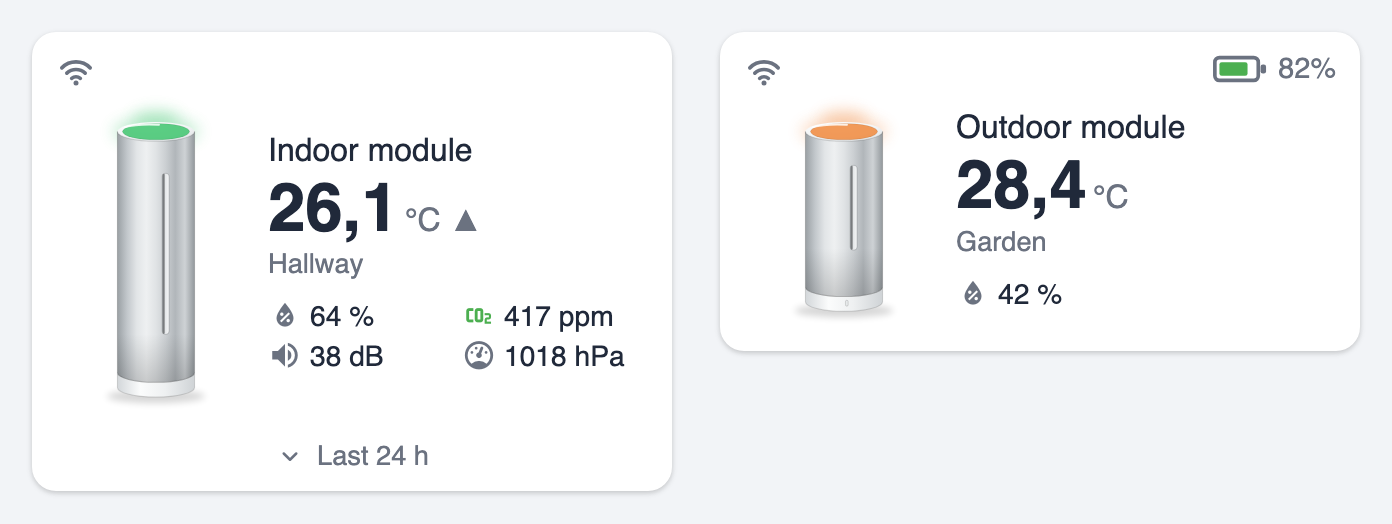
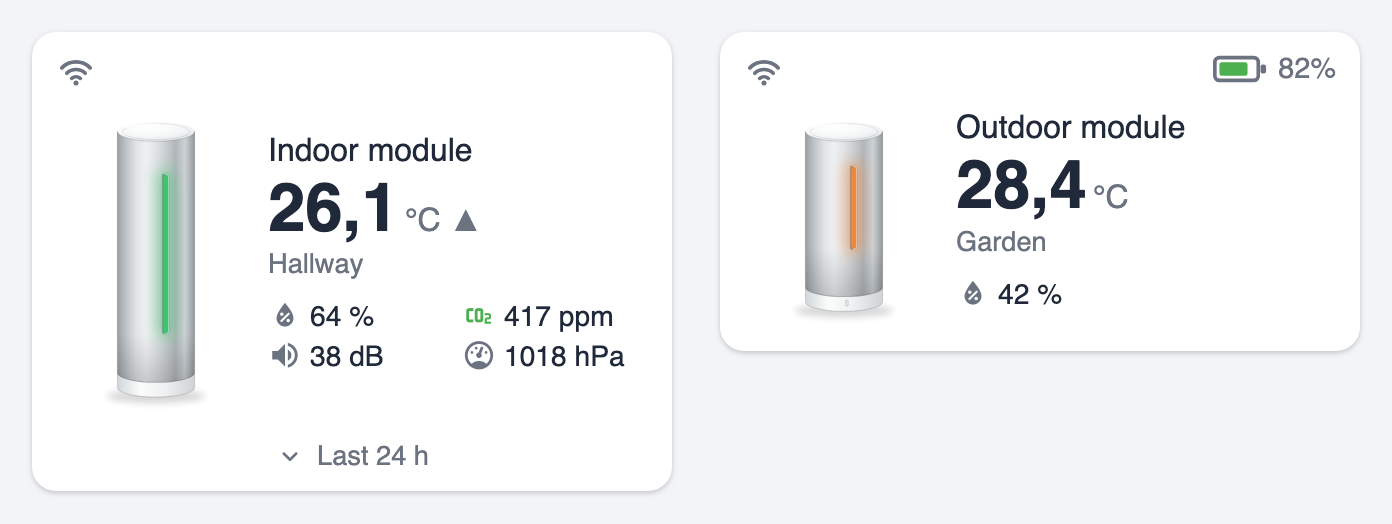
fix: the light is the front groove, not the top (matches the real module)

diff --git a/dist/netatmo-card.js b/dist/netatmo-card.js
@@ -15,7 +15,7 @@ const NT_T = {
     humidity: "Humidity entity", co2: "CO₂ entity", noise: "Noise entity", pressure: "Pressure entity",
     trend: "Temperature trend entity", battery: "Battery entity", connectivity: "Connectivity entity",
     body: "Module finish", bodyAlu: "Aluminium", bodySand: "Sand", bodyMint: "Mint", bodyGraphite: "Graphite",
-    glow: "Light up the top (air quality / temperature)", accent: "Accent color (hex)",
+    glow: "Light up the front groove (air quality / temperature)", accent: "Accent color (hex)",
     co2Good: "CO₂ threshold — good (ppm)", co2Bad: "CO₂ threshold — poor (ppm)",
     histOpt: "Show the 24 h history button", histEnt: "Charted entity (default: temperature)",
     hist: "Last 24 h", noData: "No data",
@@ -28,7 +28,7 @@ const NT_T = {
     humidity: "Entité humidité", co2: "Entité CO₂", noise: "Entité bruit", pressure: "Entité pression",
     trend: "Entité tendance de la température", battery: "Entité batterie", connectivity: "Entité connectivité",
     body: "Finition du module", bodyAlu: "Aluminium", bodySand: "Sable", bodyMint: "Menthe", bodyGraphite: "Graphite",
-    glow: "Allumer le dessus (qualité de l'air / température)", accent: "Couleur d'accent (hex)",
+    glow: "Allumer la fente (qualité de l'air / température)", accent: "Couleur d'accent (hex)",
     co2Good: "Seuil CO₂ — bon (ppm)", co2Bad: "Seuil CO₂ — mauvais (ppm)",
     histOpt: "Afficher le bouton tracé 24 h", histEnt: "Entité tracée (défaut : température)",
     hist: "Dernières 24 h", noData: "Aucune donnée",
@@ -41,7 +41,7 @@ const NT_T = {
     humidity: "Feuchtigkeits-Entität", co2: "CO₂-Entität", noise: "Lärm-Entität", pressure: "Luftdruck-Entität",
     trend: "Entität Temperaturtrend", battery: "Batterie-Entität", connectivity: "Konnektivitäts-Entität",
     body: "Oberfläche des Moduls", bodyAlu: "Aluminium", bodySand: "Sand", bodyMint: "Mint", bodyGraphite: "Graphit",
-    glow: "Oberseite leuchten lassen (Luftqualität / Temperatur)", accent: "Akzentfarbe (Hex)",
+    glow: "Frontschlitz leuchten lassen (Luftqualität / Temperatur)", accent: "Akzentfarbe (Hex)",
     co2Good: "CO₂-Schwelle — gut (ppm)", co2Bad: "CO₂-Schwelle — schlecht (ppm)",
     histOpt: "24-h-Verlauf-Button anzeigen", histEnt: "Dargestellte Entität (Standard: Temperatur)",
     hist: "Letzte 24 h", noData: "Keine Daten",
@@ -54,7 +54,7 @@ const NT_T = {
     humidity: "Entidad de humedad", co2: "Entidad de CO₂", noise: "Entidad de ruido", pressure: "Entidad de presión",
     trend: "Entidad de tendencia de temperatura", battery: "Entidad de batería", connectivity: "Entidad de conectividad",
     body: "Acabado del módulo", bodyAlu: "Aluminio", bodySand: "Arena", bodyMint: "Menta", bodyGraphite: "Grafito",
-    glow: "Iluminar la parte superior (calidad del aire / temperatura)", accent: "Color de acento (hex)",
+    glow: "Iluminar la ranura frontal (calidad del aire / temperatura)", accent: "Color de acento (hex)",
     co2Good: "Umbral CO₂ — bueno (ppm)", co2Bad: "Umbral CO₂ — malo (ppm)",
     histOpt: "Mostrar el botón de historial 24 h", histEnt: "Entidad del gráfico (por defecto: temperatura)",
     hist: "Últimas 24 h", noData: "Sin datos",
@@ -67,7 +67,7 @@ const NT_T = {
     humidity: "Entità umidità", co2: "Entità CO₂", noise: "Entità rumore", pressure: "Entità pressione",
     trend: "Entità tendenza della temperatura", battery: "Entità batteria", connectivity: "Entità connettività",
     body: "Finitura del modulo", bodyAlu: "Alluminio", bodySand: "Sabbia", bodyMint: "Menta", bodyGraphite: "Grafite",
-    glow: "Illumina la sommità (qualità dell'aria / temperatura)", accent: "Colore d'accento (hex)",
+    glow: "Illumina la fessura frontale (qualità dell'aria / temperatura)", accent: "Colore d'accento (hex)",
     co2Good: "Soglia CO₂ — buona (ppm)", co2Bad: "Soglia CO₂ — scarsa (ppm)",
     histOpt: "Mostra il pulsante storico 24 h", histEnt: "Entità nel grafico (predefinito: temperatura)",
     hist: "Ultime 24 h", noData: "Nessun dato",
@@ -80,7 +80,7 @@ const NT_T = {
     humidity: "Vochtigheids-entiteit", co2: "CO₂-entiteit", noise: "Geluids-entiteit", pressure: "Luchtdruk-entiteit",
     trend: "Entiteit temperatuurtrend", battery: "Batterij-entiteit", connectivity: "Connectiviteits-entiteit",
     body: "Afwerking van de module", bodyAlu: "Aluminium", bodySand: "Zand", bodyMint: "Mint", bodyGraphite: "Grafiet",
-    glow: "Bovenkant laten oplichten (luchtkwaliteit / temperatuur)", accent: "Accentkleur (hex)",
+    glow: "Voorste sleuf laten oplichten (luchtkwaliteit / temperatuur)", accent: "Accentkleur (hex)",
     co2Good: "CO₂-drempel — goed (ppm)", co2Bad: "CO₂-drempel — slecht (ppm)",
     histOpt: "Toon de 24 u-geschiedenisknop", histEnt: "Weergegeven entiteit (standaard: temperatuur)",
     hist: "Afgelopen 24 u", noData: "Geen gegevens",
@@ -220,6 +220,7 @@ class NetatmoCard extends HTMLElement {
     const slotY1 = TOP + H * (indoor ? 0.175 : 0.22);
     const slotY2 = TOP + H * (indoor ? 0.84 : 0.76);
     const slotX = CX + RX * 0.25, slotW = 4.2;               // sits right of centre: we see the front-right face
+    const slotH = slotY2 - slotY1;                           // the groove is the light guide — this is what lights up
 
     const pal = NT_BODY[this._config.body_color];
     const stops = pal
@@ -269,11 +270,6 @@ class NetatmoCard extends HTMLElement {
 
         <ellipse cx="${CX}" cy="${BASE_BOT + 6}" rx="${RX + 7}" ry="4.5" fill="#000" opacity="0.16" filter="url(#nt-blur-s-${u})"/>
 
-        <g class="nt-halo">
-          <ellipse cx="${CX}" cy="${TOP - 8}" rx="${RX * 0.62}" ry="6.5" filter="url(#nt-blur-${u})"/>
-          <ellipse cx="${CX}" cy="${TOP}" rx="${RX + 3}" ry="${RY + 3}" filter="url(#nt-blur-${u})"/>
-        </g>
-
         <path d="${base}" fill="url(#nt-base-${u})"/>
         <path d="${base}" fill="none" stroke="#000" stroke-opacity="0.14" stroke-width="0.7"/>
         ${indoor ? "" : `<rect x="${CX + 1}" y="${BASE_BOT - 1}" width="1.8" height="4" rx="0.9" fill="#e6e9ea" stroke="#000" stroke-opacity="0.18" stroke-width="0.5"/>`}
@@ -282,13 +278,18 @@ class NetatmoCard extends HTMLElement {
         <g clip-path="url(#nt-clip-${u})">
           <rect x="${CX - RX}" y="${FOOT - 26}" width="${RX * 2}" height="${26 + RY}" fill="url(#nt-foot-${u})"/>
         </g>
-        <rect x="${(slotX - slotW / 2 - 0.7).toFixed(2)}" y="${(slotY1 - 0.7).toFixed(1)}" width="${slotW + 1.4}" height="${(slotY2 - slotY1 + 1.4).toFixed(1)}" rx="${(slotW / 2 + 0.7).toFixed(2)}" fill="#000" opacity="0.1"/>
-        <rect x="${(slotX - slotW / 2).toFixed(2)}" y="${slotY1.toFixed(1)}" width="${slotW}" height="${(slotY2 - slotY1).toFixed(1)}" rx="${(slotW / 2).toFixed(2)}" fill="url(#nt-slot-${u})"/>
-        <rect x="${(slotX - slotW / 2).toFixed(2)}" y="${slotY1.toFixed(1)}" width="1.5" height="${(slotY2 - slotY1).toFixed(1)}" rx="0.75" fill="#000" opacity="0.34"/>
+        <rect x="${(slotX - slotW / 2 - 0.7).toFixed(2)}" y="${(slotY1 - 0.7).toFixed(1)}" width="${slotW + 1.4}" height="${(slotH + 1.4).toFixed(1)}" rx="${(slotW / 2 + 0.7).toFixed(2)}" fill="#000" opacity="0.1"/>
+        <rect x="${(slotX - slotW / 2).toFixed(2)}" y="${slotY1.toFixed(1)}" width="${slotW}" height="${slotH.toFixed(1)}" rx="${(slotW / 2).toFixed(2)}" fill="url(#nt-slot-${u})"/>
+        <rect x="${(slotX - slotW / 2).toFixed(2)}" y="${slotY1.toFixed(1)}" width="1.5" height="${slotH.toFixed(1)}" rx="0.75" fill="#000" opacity="0.34"/>
+
+        <g class="nt-halo">
+          <rect x="${(slotX - slotW / 2 - 3.5).toFixed(2)}" y="${(slotY1 - 3.5).toFixed(1)}" width="${slotW + 7}" height="${(slotH + 7).toFixed(1)}" rx="${(slotW / 2 + 3.5).toFixed(2)}" filter="url(#nt-blur-${u})"/>
+        </g>
+        <rect class="nt-lens" x="${(slotX - slotW / 2 + 0.45).toFixed(2)}" y="${(slotY1 + 0.45).toFixed(1)}" width="${slotW - 0.9}" height="${(slotH - 0.9).toFixed(1)}" rx="${(slotW / 2 - 0.45).toFixed(2)}"/>
+
         <path d="${body}" fill="none" stroke="#000" stroke-opacity="0.18" stroke-width="0.7"/>
 
         <ellipse cx="${CX}" cy="${TOP}" rx="${RX}" ry="${RY}" fill="url(#nt-cap-${u})"/>
-        <ellipse class="nt-lens" cx="${CX}" cy="${TOP}" rx="${RX - 3.4}" ry="${RY - 1}"/>
         <ellipse cx="${CX}" cy="${TOP}" rx="${RX - 3.4}" ry="${RY - 1}" fill="none" stroke="#000" stroke-opacity="0.09" stroke-width="0.6"/>
         <path d="M ${CX - RX} ${TOP} A ${RX} ${RY} 0 0 0 ${CX + RX} ${TOP}" fill="none" stroke="#000" stroke-opacity="0.13" stroke-width="0.7"/>
         <path d="M ${CX - RX + 5} ${TOP - 3} A ${RX - 5} ${RY - 2.6} 0 0 1 ${CX + 2} ${TOP - 4.6}" fill="none" stroke="#fff" stroke-opacity="0.85" stroke-width="1.3" stroke-linecap="round"/>
@@ -329,7 +330,7 @@ class NetatmoCard extends HTMLElement {
           color: var(--nt-row-color, var(--secondary-text-color)); }
         .nt-rv { font-size: 0.88em; color: var(--primary-text-color);
           overflow: hidden; text-overflow: ellipsis; white-space: nowrap; }
-        .nt-halo ellipse { fill: var(--nt-glow, transparent); opacity: var(--nt-glow-op, 0); transition: opacity 0.6s; }
+        .nt-halo > * { fill: var(--nt-glow, transparent); opacity: var(--nt-glow-op, 0); transition: opacity 0.6s; }
         .nt-lens { fill: var(--nt-glow, transparent); opacity: var(--nt-lens-op, 0); transition: opacity 0.6s; }
         .nt-unavailable .nt-mod, .nt-unavailable .nt-value { opacity: 0.4; }
         .nt-hist-toggle { display: flex; align-items: center; justify-content: center; gap: 6px;
@@ -505,8 +506,8 @@ class NetatmoCard extends HTMLElement {
   _updateGlow() {
     const col = this._glowColor();
     this._card.style.setProperty("--nt-glow", col || "transparent");
-    this._card.style.setProperty("--nt-glow-op", col ? "0.3" : "0");
-    this._card.style.setProperty("--nt-lens-op", col ? "0.85" : "0");
+    this._card.style.setProperty("--nt-glow-op", col ? "0.55" : "0");
+    this._card.style.setProperty("--nt-lens-op", col ? "1" : "0");
   }
 
   _updateCorners() {
@@ -742,7 +743,7 @@ window.customCards = window.customCards || [];
 window.customCards.push({
   type: "netatmo-card",
   name: "Netatmo Card",
-  description: "The Netatmo indoor and outdoor weather modules drawn as they look, with their readings alongside and the top lighting up with air quality.",
+  description: "The Netatmo indoor and outdoor weather modules drawn as they look, with their readings alongside and the front groove lighting up with air quality.",
   preview: true,
   documentationURL: "https://github.com/ADNPolymerase/ha-netatmo-card",
 });

diff --git a/README.fr.md b/README.fr.md
@@ -14,15 +14,15 @@ Multilingue (6 langues : EN, FR, DE, ES, IT, NL — détectées depuis Home Assi
 
 Une card Lovelace qui dessine les **modules météo intérieur et extérieur** tels qu'ils sont —
 cylindre alu mat, rainure verticale en creux, socle translucide — avec les mesures à côté
-et le dessus qui s'allume selon la qualité de l'air. Intérieur et extérieur sont dessinés
-à leurs tailles relatives réelles.
+et la fente qui s'allume selon la qualité de l'air, comme sur le vrai module. Intérieur et
+extérieur sont dessinés à leurs tailles relatives réelles.
 
 ![Netatmo Card](https://raw.githubusercontent.com/ADNPolymerase/ha-netatmo-card/main/docs/screenshot.fr.png)
 
 ## Fonctionnalités
 
 - **Deux modules, une card** : la station intérieure haute et le module extérieur court, à leurs proportions réelles. `module_type` est déduit automatiquement des entités fournies.
-- **Le dessus s'allume**, comme sur le vrai module : vert / orange / rouge selon le CO₂ à l'intérieur, selon la température à l'extérieur. Seuils configurables, désactivable avec `show_glow: false`.
+- **La fente s'allume**, comme sur le vrai module : vert / orange / rouge selon le CO₂ à l'intérieur, selon la température à l'extérieur. Seuils configurables, désactivable avec `show_glow: false`.
 - **Compléter depuis l'appareil** : choisissez le capteur de température et l'éditeur propose un bouton qui remplit humidité, CO₂, bruit, pression, batterie et connectivité depuis le même appareil.
 - **Mesures en tuiles** : température en gros avec sa flèche de tendance, puis humidité, CO₂, bruit et pression — chacune colorée hors de la plage de confort, chacune ouvrant sa fiche au clic.
 - **Batterie et connectivité** dans les coins (niveau coloré, icône wifi barrée en rouge hors ligne).
@@ -73,7 +73,7 @@ label: Entrée
 | `connectivity_entity` | — | Capteur de connectivité affiché en haut à gauche |
 | `decimals` | `1` | Décimales de la température |
 | `body_color` | `aluminium` | `aluminium`, `sand`, `mint` ou `graphite` |
-| `show_glow` | `true` | Allumer le dessus du module |
+| `show_glow` | `true` | Allumer la fente du module |
 | `co2_good` | `1000` | En dessous, le dessus s'allume en vert (ppm) |
 | `co2_bad` | `2000` | Au-dessus, le dessus s'allume en rouge (ppm) |
 | `accent_color` | `#2f8fd0` | Couleur de la courbe 24 h |

diff --git a/README.md b/README.md
@@ -14,8 +14,8 @@ Multilingual (6 languages: EN, FR, DE, ES, IT, NL — auto-detected from Home As
 
 A Lovelace card that draws the **indoor and outdoor weather modules** the way they look —
 matte anodised cylinder, recessed front groove, translucent base — with their readings
-alongside and the top lighting up with air quality. Indoor and outdoor are drawn at their
-real relative sizes.
+alongside and the groove lighting up with air quality, like the real module. Indoor and
+outdoor are drawn at their real relative sizes.
 
 > 🇫🇷 [Lire en français](README.fr.md)
 
@@ -24,7 +24,7 @@ real relative sizes.
 ## Features
 
 - **Two modules, one card**: the tall indoor station and the short outdoor module, at their real proportions. `module_type` is auto-detected from the entities you give it.
-- **The top lights up**, like the real module: green / amber / red by CO₂ indoors, by temperature outdoors. Thresholds are configurable; turn it off with `show_glow: false`.
+- **The front groove lights up**, like the real module: green / amber / red by CO₂ indoors, by temperature outdoors. Thresholds are configurable; turn it off with `show_glow: false`.
 - **Fill in from the device**: pick the temperature sensor and the editor offers one button that fills in humidity, CO₂, noise, pressure, battery and connectivity from the same device.
 - **Readings as tiles**: temperature in large type with its trend arrow, then humidity, CO₂, noise and pressure — each colored when it leaves the comfortable range, each opening its own more-info on tap.
 - **Battery and connectivity** in the card corners (colored level, wifi icon crossed out in red when offline).
@@ -74,7 +74,7 @@ label: Hallway
 | `connectivity_entity` | — | Connectivity sensor shown top-left |
 | `decimals` | `1` | Decimals for the temperature |
 | `body_color` | `aluminium` | `aluminium`, `sand`, `mint` or `graphite` |
-| `show_glow` | `true` | Light up the top of the module |
+| `show_glow` | `true` | Light up the front groove of the module |
 | `co2_good` | `1000` | Below this, the top glows green (ppm) |
 | `co2_bad` | `2000` | Above this, the top glows red (ppm) |
 | `accent_color` | `#2f8fd0` | Color of the 24 h curve |
